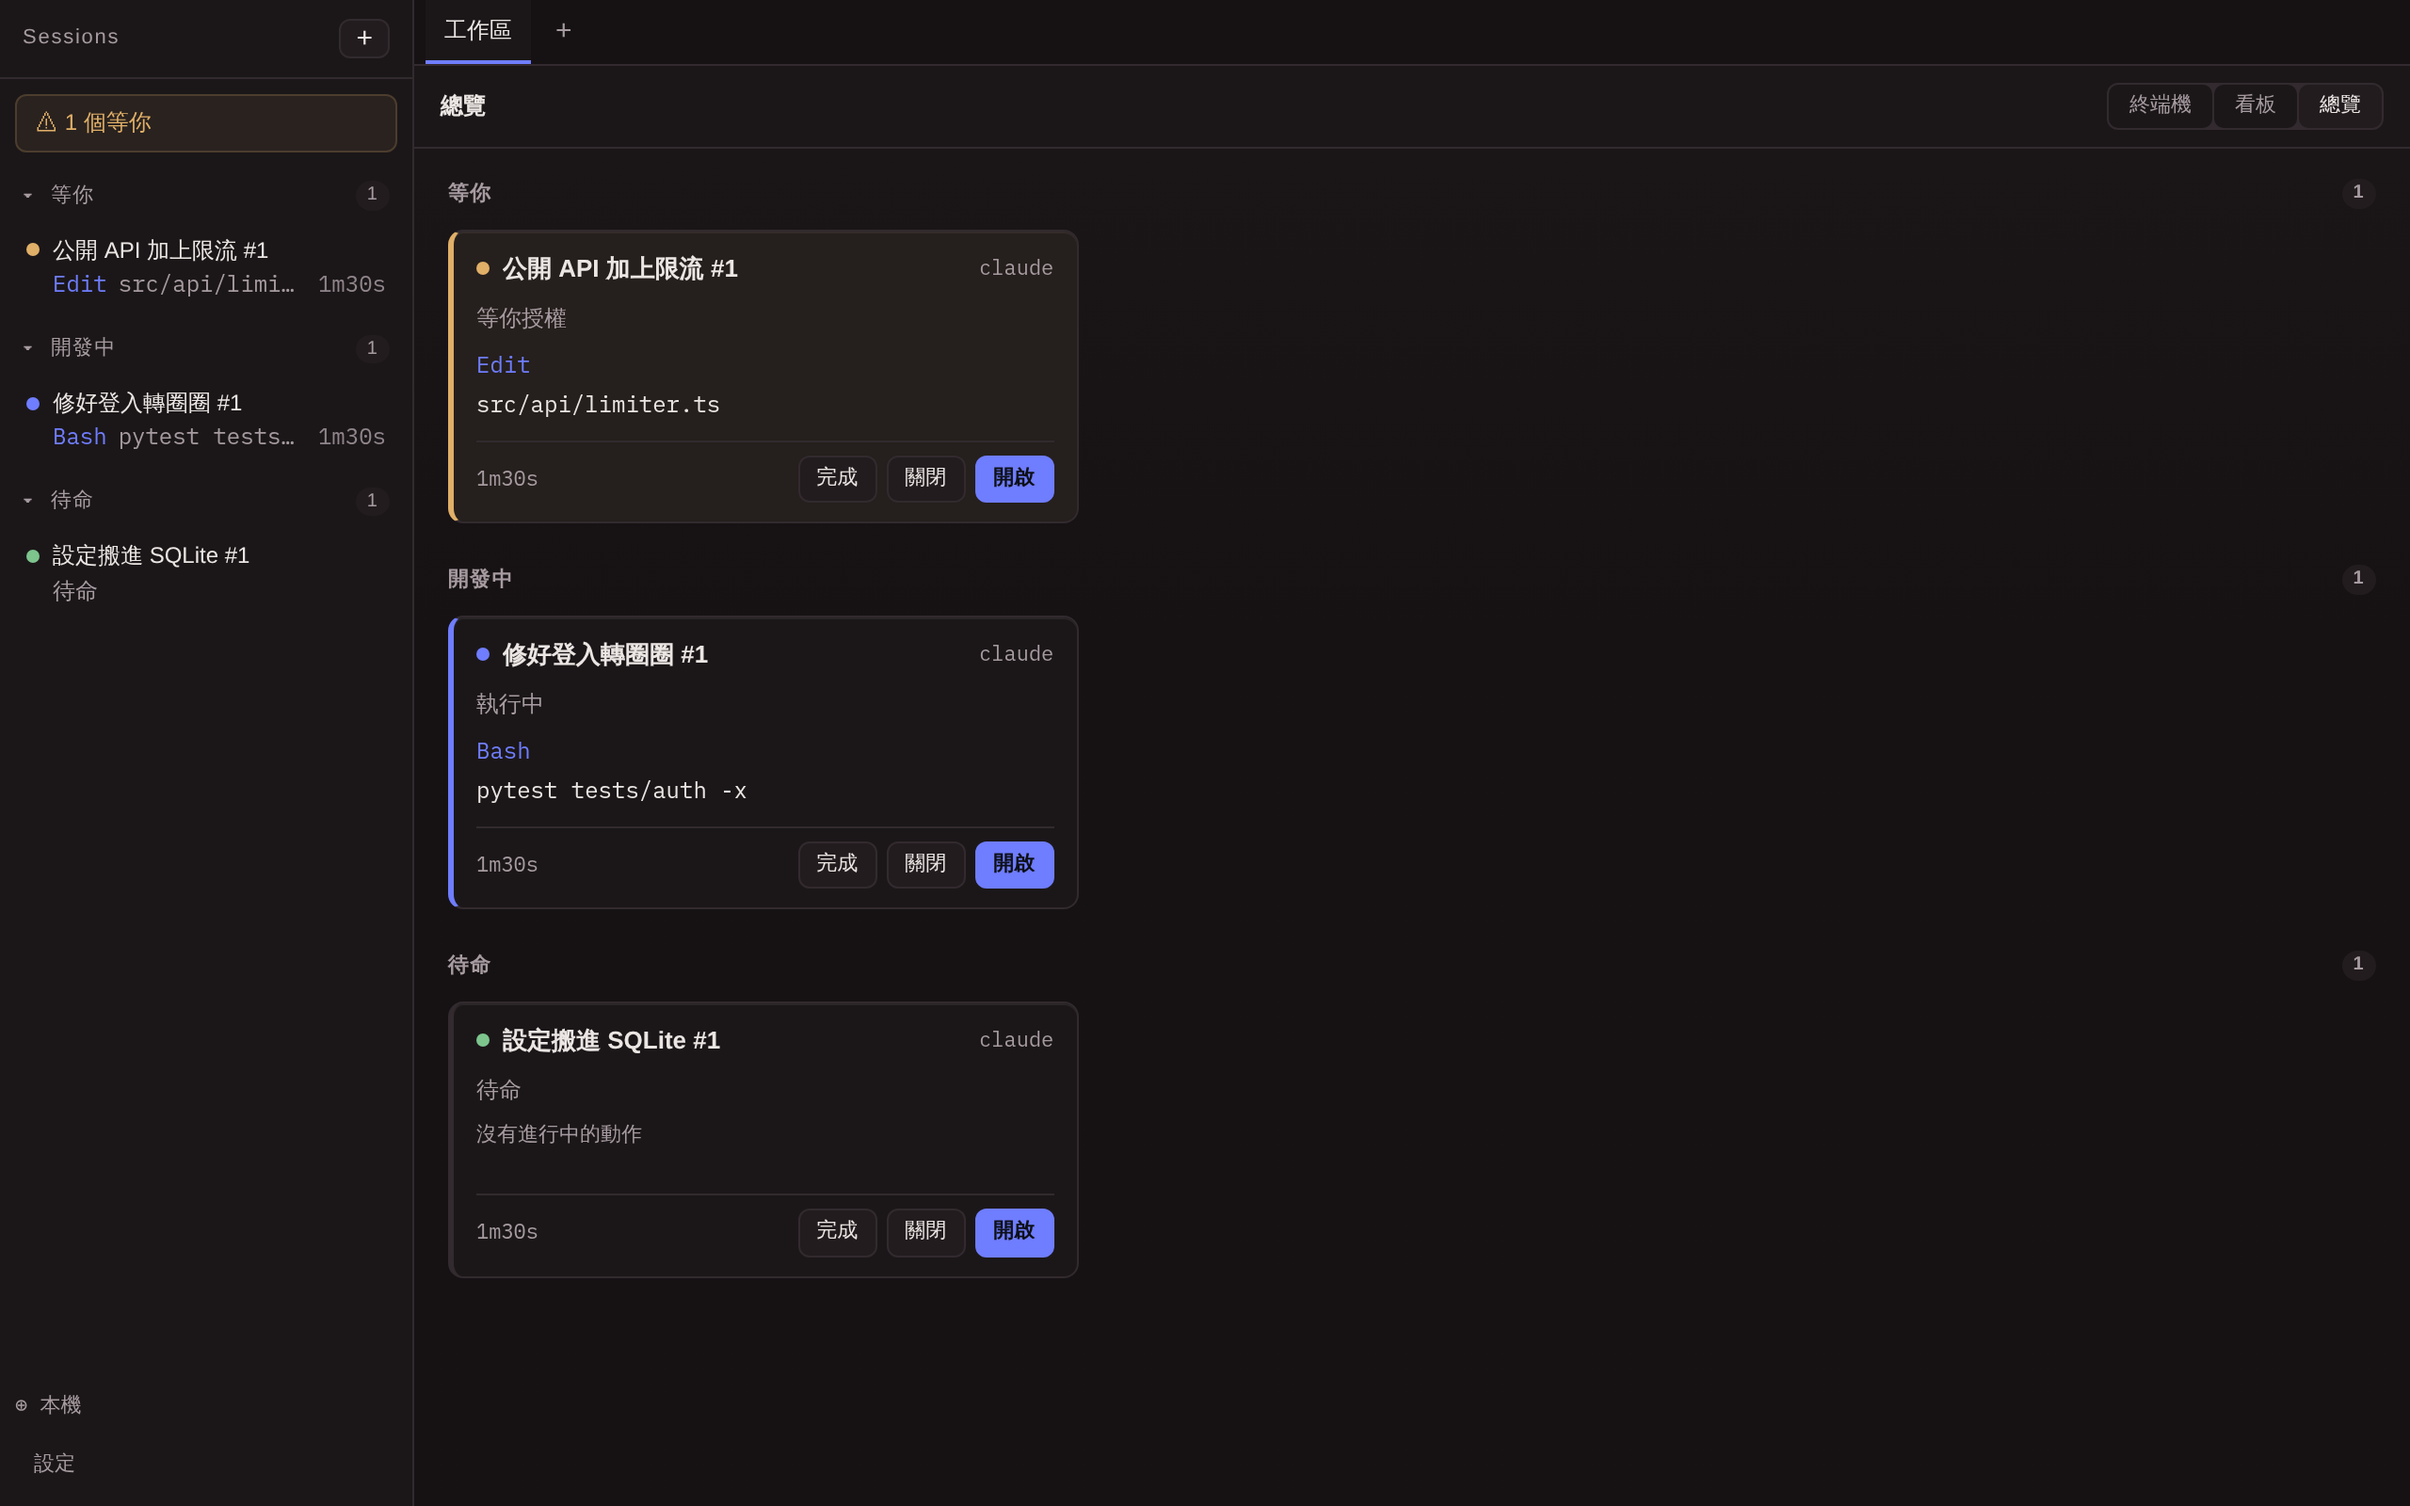
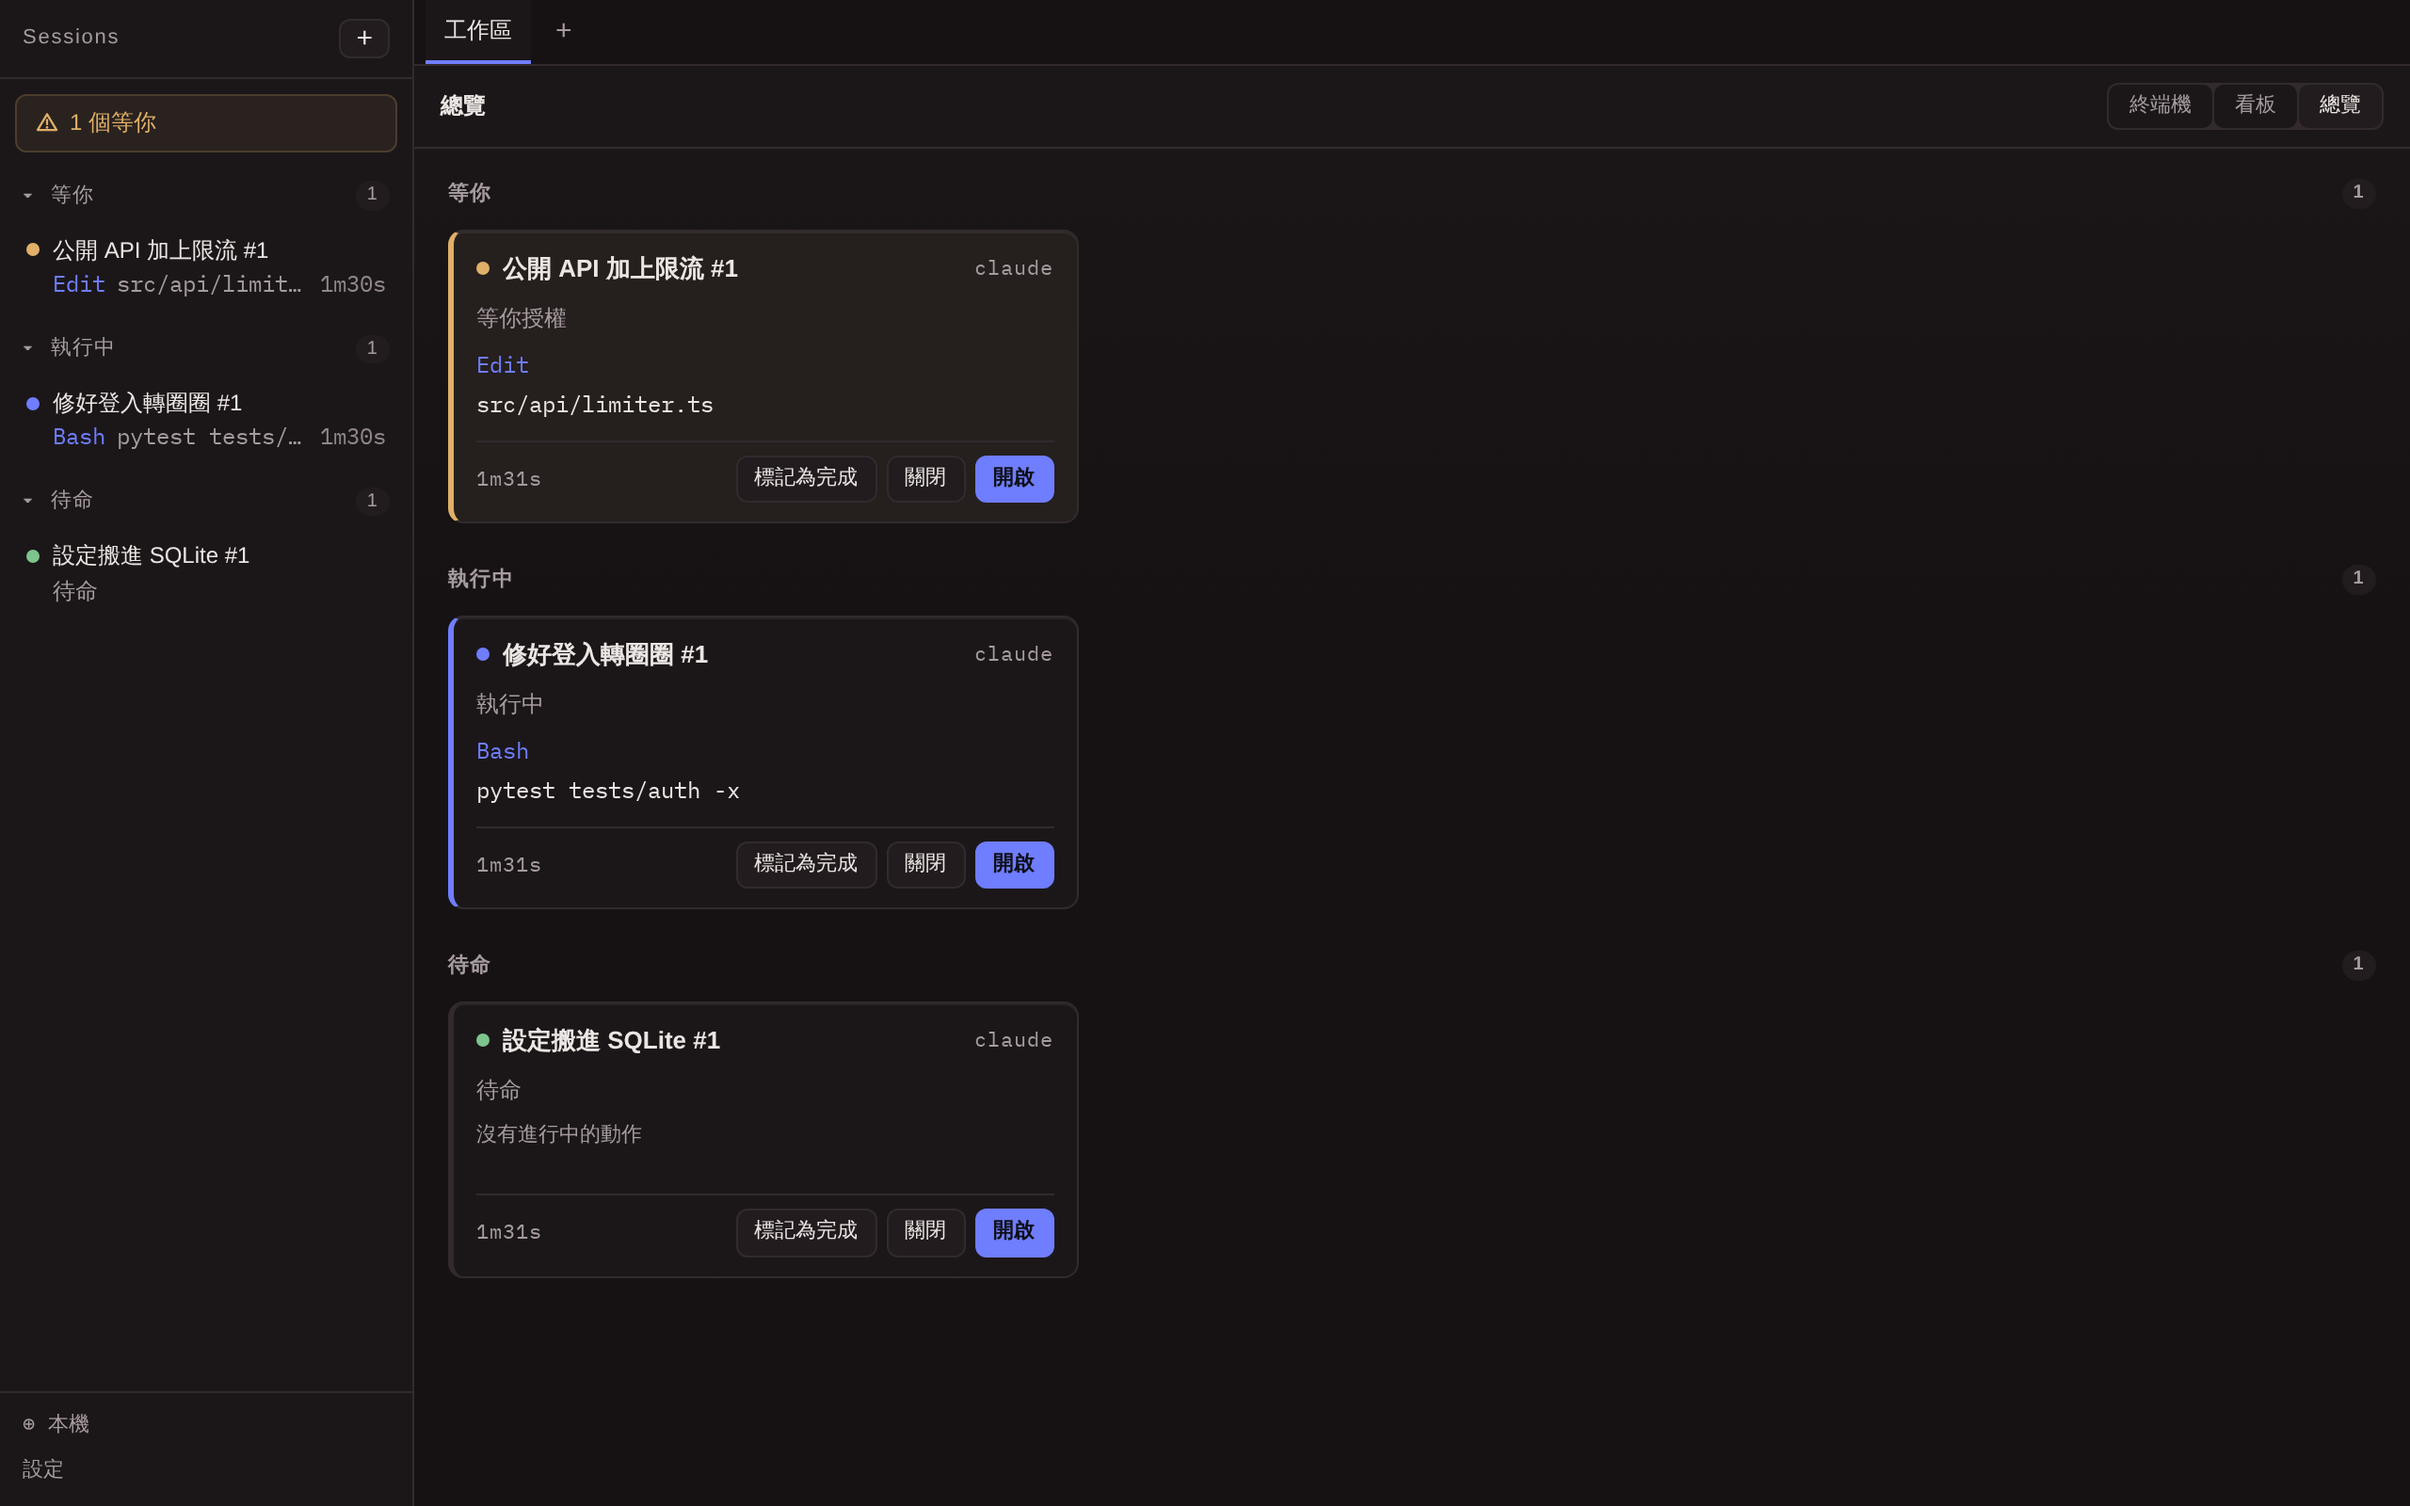
docs: the media and the prose say what the app now says
Every still and clip was regenerated against the current interface, so
the README no longer shows a product whose words changed underneath it:
14 PNGs (SHOTS=1) and 14 GIFs (CLIP_DIR + readme-clips).

The prose that quoted the interface follows it. The ad-hoc paragraph
described a strip below the board that no longer exists; the bottom-left
switch is labelled Host / 主機; Park is 擱置; the token chip reads
context rather than 語境; the drawer's third tab is 規則檔; the
no-signal chip says 沒有狀態回報.

"World" stays where it names the execution model rather than a control —
three worlds is still what the architecture does, and the section
describing it is about wsl.exe and ssh, not about a menu.

Also live.parked: the button said 擱置 and the state it produced still
said 已暫停. One word for one thing.

Left alone on purpose: docs/*-research.md and docs/decisions/. Those
record what was decided and when, and rewriting the quotes in them would
make the record disagree with itself.

Claude-Session: https://claude.ai/code/session_01LnuzreR78fyvXGhXcjvHSg

diff --git a/ui/tests/journeys/j2-triage.spec.ts b/ui/tests/journeys/j2-triage.spec.ts
@@ -430,11 +430,11 @@ test('J2 · parallel triage, end to end', async ({ page }) => {
     await expect(parkToast).toContainText('marol/k4');
     await expect(page.locator('[data-testid^="confirm-"]')).toHaveCount(0);
 
-    // (c) 卡片睡著了：parked 的邊、「已暫停」的狀態行、「繼續」候著；
+    // (c) 卡片睡著了：parked 的邊、「已擱置」的狀態行、「繼續」候著；
     // 側欄的活分區失去這一列 —— worktree 連著 session 一起還回去，
     // 未讀也跟著人去樓空（膠囊整顆退場，桌上再無未看的結束）。
     await expect(page.getByTestId('task-k4')).toHaveAttribute('data-live', 'parked');
-    await expect(page.getByTestId('state-k4')).toContainText('已暫停');
+    await expect(page.getByTestId('state-k4')).toContainText('已擱置');
     await expect(page.getByTestId('resume-k4')).toBeVisible();
     await expect(page.getByTestId('session-s94')).toHaveCount(0);
     await expect(page.locator('.tab-badge.unseen')).toHaveCount(0);
@@ -442,10 +442,10 @@ test('J2 · parallel triage, end to end', async ({ page }) => {
     // （見報告：park 後沒有安排落點），釘住，改了會被看見。
     await expectFocusNeutral(page);
     // (b) 停放走 toast，不走朗讀通道。
-    await expect(live).not.toContainText('已暫停');
+    await expect(live).not.toContainText('已擱置');
 
     // 桌子的收尾快照：兩張微光（剛答完的 k1/k2）、一張已合併、一張
-    // 已暫停、一張待命且已讀 —— 分流做完，桌面說得清楚。
+    // 已擱置、一張待命且已讀 —— 分流做完，桌面說得清楚。
     await expect(page.locator('.board-card.astir')).toHaveCount(2);
     await expect(page.getByTestId('unseen-card-k3')).toHaveCount(0);
     await expect(page.getByTestId('state-k3')).toContainText('待命');

diff --git a/ui/tests/journeys/j3-restart.spec.ts b/ui/tests/journeys/j3-restart.spec.ts
@@ -195,7 +195,7 @@ test('J3 · restart recovery, end to end', async ({ page }) => {
     // 的東西沒有再停一次的理由。
     const parked = page.getByTestId('task-k5');
     await expect(parked).toHaveAttribute('data-live', 'parked');
-    await expect(page.getByTestId('state-k5')).toContainText('已暫停');
+    await expect(page.getByTestId('state-k5')).toContainText('已擱置');
     const parkedFirst = parked.locator('.board-card-foot button').first();
     await expect(parkedFirst).toHaveAttribute('data-testid', 'resume-k5');
     await expect(parkedFirst).toHaveClass(/primary/);
@@ -303,7 +303,7 @@ test('J3 · restart recovery, end to end', async ({ page }) => {
       page.locator('[data-section="working"] [data-testid="session-s1"]'),
     ).toBeVisible();
 
-    // 卡片回到自己的欄位：還在進行中，只是從「已暫停」變成活的。
+    // 卡片回到自己的欄位：還在進行中，只是從「已擱置」變成活的。
     await page.mouse.move(0, 0);
     await chord(page, '2');
     await expect(

diff --git a/ui/tests/board.spec.ts b/ui/tests/board.spec.ts
@@ -594,7 +594,7 @@ test.describe('parked — work kept, ground given back', () => {
     // The card is asleep, resumable — and its session left the sidebar:
     // parked things stop paying the attention tax.
     await expect(page.getByTestId('task-k1')).toHaveAttribute('data-live', 'parked');
-    await expect(page.getByTestId('state-k1')).toHaveText(/已暫停/);
+    await expect(page.getByTestId('state-k1')).toHaveText(/已擱置/);
     await expect(page.getByTestId('resume-k1')).toBeVisible();
     await expect(page.locator('[data-testid="session-s1"]')).toHaveCount(0);
     await expect(page.locator('.toast.ok')).toContainText('marol/card-1');

diff --git a/ui/src/i18n/messages.ts b/ui/src/i18n/messages.ts
@@ -736,7 +736,7 @@ export const zhTW: Record<MessageKey, string> = {
   'live.notStarted': '尚未開始',
   'live.queued': '排隊中 · 第 {position} 個',
   'live.stopped': '未執行',
-  'live.parked': '已暫停',
+  'live.parked': '已擱置',
   'live.ended': '已結案',
 
   /* ----------------------------- status ------------------------------- */

diff --git a/README.md b/README.md
@@ -145,8 +145,9 @@ pixel for pixel, beside a plain test runner.
   live state, so a card sitting in "in progress" can light up with "⚠ waiting
   on permission", and clicking it drops you into that session's TUI. Every
   card is the same height, so the board stays scannable while its cards change
-  under you. There is a separate ad-hoc session area, off the board, with no
-  worktree and no lifecycle
+  under you. Sessions opened without a card sit in the same columns, sorted by
+  what they are doing — live in "in progress", closed in "done" — and wear a
+  dashed edge, because they have no worktree and nothing to merge
 - **Changes and activity**: a drawer beside the TUI that says what this attempt
   changed (uncommitted and new files included) and what it did, without going
   into the terminal
@@ -171,7 +172,7 @@ pixel for pixel, beside a plain test runner.
   --ask-for-approval on-request`, `--dangerously-bypass-approvals-and-sandbox`)
   — and this desk stores what a person approved rather than translating one
   agent's settings into another's. The worktree is the safety argument, so
-  the choice exists for attempts and never for ad-hoc sessions. Approved once
+  the choice exists for attempts and never for card-less sessions. Approved once
   in the start dialog, it survives queueing and resumes, and the card wears a
   ⚡ badge for as long as the session runs unprompted
 - **Named profiles**: a profile is a name for "this CLI, with these flags,
@@ -468,7 +469,7 @@ The pieces that carry the triage loop, in roughly the order you meet them:
   by recency instead of asking you to type one from memory. The title is
   optional: left blank, the card takes the prompt's first line, a rule the
   dialog states rather than a lucky default.
-- **Worlds.** The bottom-left switch picks where new cards and sessions open
+- **Hosts.** The bottom-left switch picks where new cards and sessions open
   (WSL distros and SSH hosts enumerated, never invented) and probes the chosen
   world's agents on demand. Repos over WSL or SSH carry a host badge on
   their cards, and the overview separates sessions by machine once more than
